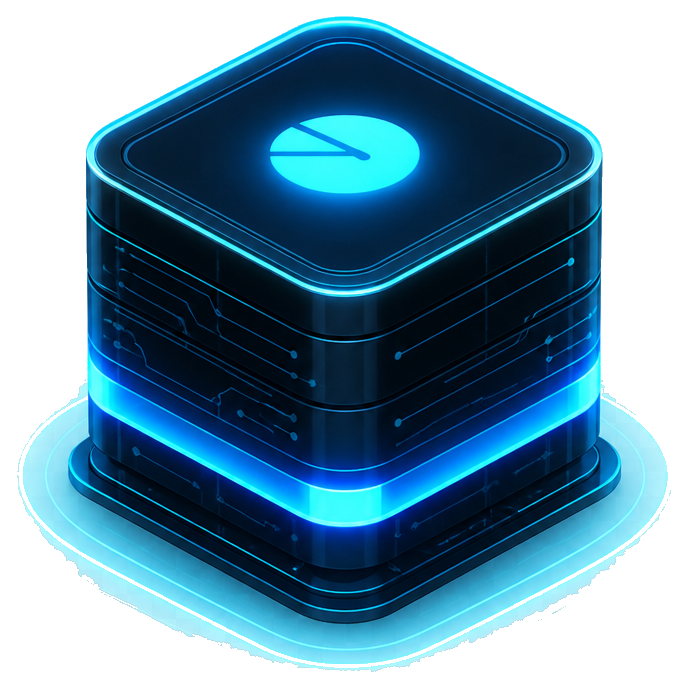
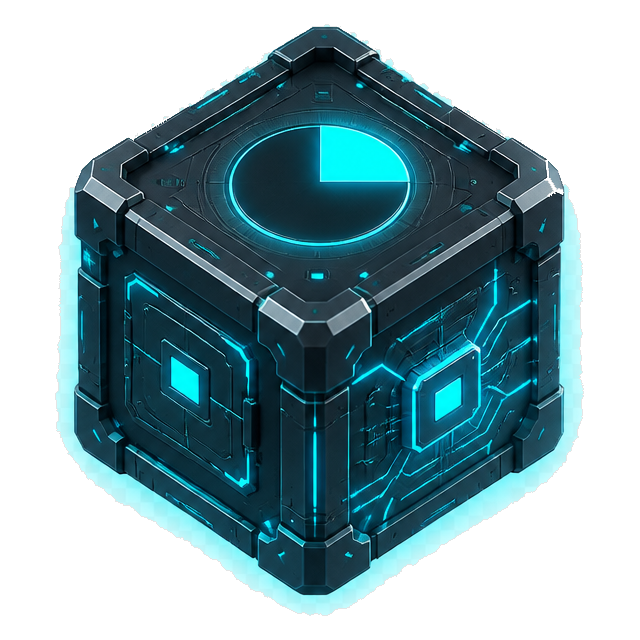
added design changes;

diff --git a/app/src/pages/MarketplacePages.tsx b/app/src/pages/MarketplacePages.tsx
@@ -146,38 +146,43 @@ export function AgenticOverviewPage() {
   const earnings = featured ? earningsForAgent(jobs, featured.id) : 0;
 
   return <>
-    {/* ── Hero — mirrors 01_home; image sits behind copy on small screens ── */}
-    <section className="relative mb-5 overflow-hidden rounded-2xl border border-[#22d3ee]/15 bg-[radial-gradient(ellipse_at_85%_15%,rgba(34,211,238,0.16),transparent_50%),linear-gradient(165deg,#071218_0%,#050807_70%)] sm:mb-8 sm:rounded-3xl">
-      <div className="pointer-events-none absolute inset-0 opacity-35 [background-image:linear-gradient(rgba(34,211,238,.05)_1px,transparent_1px),linear-gradient(90deg,rgba(34,211,238,.05)_1px,transparent_1px)] [background-size:24px_24px]" />
-      <img
-        src={heroAgentCube}
-        alt=""
-        className="pointer-events-none absolute -right-6 top-2 h-40 w-40 object-contain opacity-55 drop-shadow-[0_0_40px_rgba(34,211,238,0.45)] sm:hidden"
-      />
-      <div className="relative grid items-center gap-6 p-5 sm:gap-8 sm:p-8 lg:grid-cols-[minmax(0,1.15fr)_auto] lg:p-10">
-        <div className="min-w-0 max-w-xl pr-[38%] sm:pr-0">
-          <h1 className="font-tech text-[1.65rem] font-black leading-[1.08] tracking-tight text-white sm:text-4xl lg:text-5xl">
+    {/* ── Hero — clean stack on mobile; side-by-side from lg up ── */}
+    <section className="relative mb-5 overflow-hidden rounded-2xl border border-[#22d3ee]/15 bg-[radial-gradient(ellipse_at_70%_0%,rgba(34,211,238,0.14),transparent_55%),linear-gradient(165deg,#071218_0%,#050807_72%)] sm:mb-8 sm:rounded-3xl">
+      <div className="pointer-events-none absolute inset-0 opacity-30 [background-image:linear-gradient(rgba(34,211,238,.05)_1px,transparent_1px),linear-gradient(90deg,rgba(34,211,238,.05)_1px,transparent_1px)] [background-size:24px_24px]" />
+      <div className="relative flex flex-col items-stretch gap-5 p-5 sm:gap-8 sm:p-8 lg:flex-row lg:items-center lg:justify-between lg:p-10">
+        <div className="min-w-0 max-w-xl flex-1">
+          <h1 className="font-tech text-[1.75rem] font-black leading-[1.1] tracking-tight text-white sm:text-4xl lg:text-5xl">
             Your AI Agent.
             <span className="mt-1 block text-[#22d3ee]">Built to compete, improve and earn.</span>
           </h1>
           <p className="mt-3 max-w-md text-[13px] leading-5 text-white/50 sm:mt-4 sm:text-[15px] sm:leading-6">
             Create a persistent Agent, test its capabilities, and hire specialist Agents when it needs to improve.
           </p>
-          <div className="mt-5 flex flex-col gap-2.5 sm:mt-6 sm:flex-row sm:flex-wrap sm:items-center sm:gap-3">
-            <a href={KULT_MY_AGENTS_URL} target="_blank" rel="noreferrer" className="agentic-primary w-full justify-center sm:w-auto">
+          <div className="mt-5 hidden flex-wrap items-center gap-3 sm:mt-6 sm:flex">
+            <a href={KULT_MY_AGENTS_URL} target="_blank" rel="noreferrer" className="agentic-primary">
               <Plus className="h-4 w-4" /> Create My Agent
             </a>
-            <Link to="/jobs" className="agentic-secondary w-full justify-center sm:w-auto">
+            <Link to="/jobs" className="agentic-secondary">
               Explore Marketplace <ArrowUpRight className="h-3.5 w-3.5" />
             </Link>
           </div>
         </div>
-        <div className="mx-auto hidden shrink-0 sm:block lg:mx-0">
+
+        <div className="mx-auto flex shrink-0 justify-center lg:mx-0">
           <img
             src={heroAgentCube}
             alt=""
-            className="h-52 w-52 object-contain drop-shadow-[0_0_48px_rgba(34,211,238,0.4)] md:h-60 md:w-60 lg:h-72 lg:w-72"
+            className="h-36 w-36 object-contain drop-shadow-[0_0_36px_rgba(34,211,238,0.45)] sm:h-52 sm:w-52 md:h-60 md:w-60 lg:h-72 lg:w-72"
           />
+        </div>
+
+        <div className="flex flex-col gap-2.5 sm:hidden">
+          <a href={KULT_MY_AGENTS_URL} target="_blank" rel="noreferrer" className="agentic-primary w-full justify-center">
+            <Plus className="h-4 w-4" /> Create My Agent
+          </a>
+          <Link to="/jobs" className="agentic-secondary w-full justify-center">
+            Explore Marketplace <ArrowUpRight className="h-3.5 w-3.5" />
+          </Link>
         </div>
       </div>
     </section>
@@ -235,13 +240,13 @@ export function AgenticOverviewPage() {
 
     {/* ── Create → Compete → Improve ── */}
     <section className="agentic-surface mb-5 p-4 sm:mb-8 sm:p-6">
-      <div className="agentic-scroll-x sm:grid sm:grid-cols-3 sm:gap-4 sm:overflow-visible">
+      <div className="grid grid-cols-1 gap-3 sm:grid-cols-3 sm:gap-4">
         {[
           { n: "01", icon: iconStepCreate, title: "Create", body: "Build your Agent" },
           { n: "02", icon: iconStepCompete, title: "Compete", body: "Test it in the Arena" },
           { n: "03", icon: iconStepImprove, title: "Improve", body: "Hire Agents to grow" },
         ].map((step, i) => (
-          <div key={step.n} className="relative flex min-w-[220px] items-center gap-3 rounded-xl border border-white/8 bg-white/[.02] px-3 py-3 sm:min-w-0 sm:border-0 sm:bg-transparent sm:px-0 sm:py-0">
+          <div key={step.n} className="relative flex items-center gap-3 rounded-xl border border-white/8 bg-white/[.02] px-3 py-3 sm:border-0 sm:bg-transparent sm:px-0 sm:py-0">
             <div className="flex h-10 w-10 shrink-0 items-center justify-center rounded-full border border-[#22d3ee]/35 bg-[#22d3ee]/10 font-tech text-[10px] font-black text-[#22d3ee] sm:h-12 sm:w-12 sm:text-xs">
               {step.n}
             </div>

diff --git a/app/src/layout/AppShell.tsx b/app/src/layout/AppShell.tsx
@@ -9,12 +9,12 @@ import {
 } from "lucide-react";
 
 const links = [
-  { label: "Home", to: "/", icon: LayoutDashboard, end: true },
-  { label: "Marketplace", to: "/jobs", icon: Search, end: true },
-  { label: "Hire Agent", to: "/jobs/new", icon: Plus },
-  { label: "My Agent", to: "/agents", icon: Bot },
-  { label: "Activity", to: "/my-jobs", icon: BriefcaseBusiness },
-  { label: "Reputation", to: "/reputation", icon: ShieldCheck },
+  { label: "Home", shortLabel: "Home", to: "/", icon: LayoutDashboard, end: true },
+  { label: "Marketplace", shortLabel: "Market", to: "/jobs", icon: Search, end: true },
+  { label: "Hire Agent", shortLabel: "Hire", to: "/jobs/new", icon: Plus },
+  { label: "My Agent", shortLabel: "Agent", to: "/agents", icon: Bot },
+  { label: "Activity", shortLabel: "Jobs", to: "/my-jobs", icon: BriefcaseBusiness },
+  { label: "Reputation", shortLabel: "Rep", to: "/reputation", icon: ShieldCheck },
 ];
 
 /** Primary destinations for the mobile bottom bar (keeps Hire in header CTA). */
@@ -183,7 +183,7 @@ export function AppShell() {
                   )}
                 >
                   <item.icon className={cn("h-4 w-4", isActive && "drop-shadow-[0_0_8px_rgba(34,211,238,0.65)]")} />
-                  <span className="truncate">{item.label.split(" ")[0]}</span>
+                  <span className="max-w-full truncate">{item.shortLabel}</span>
                 </span>
               )}
             </NavLink>
